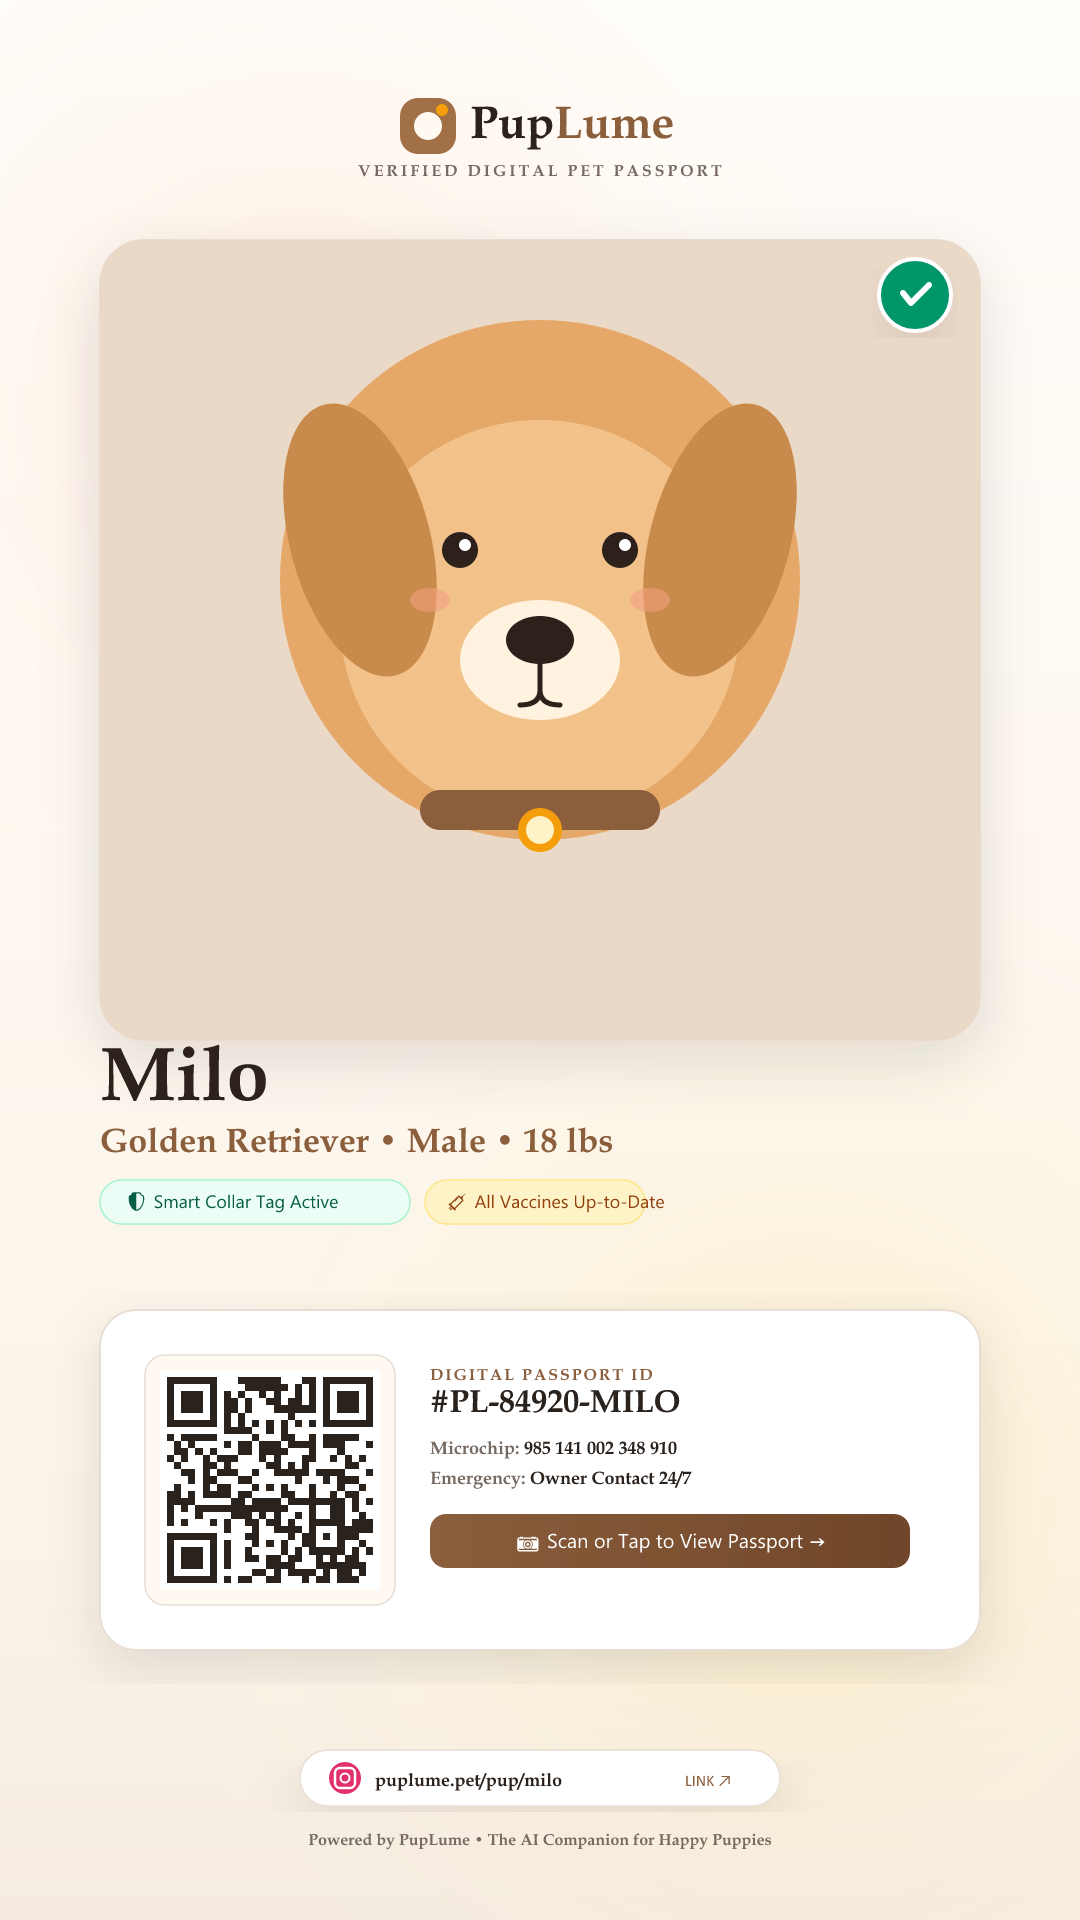
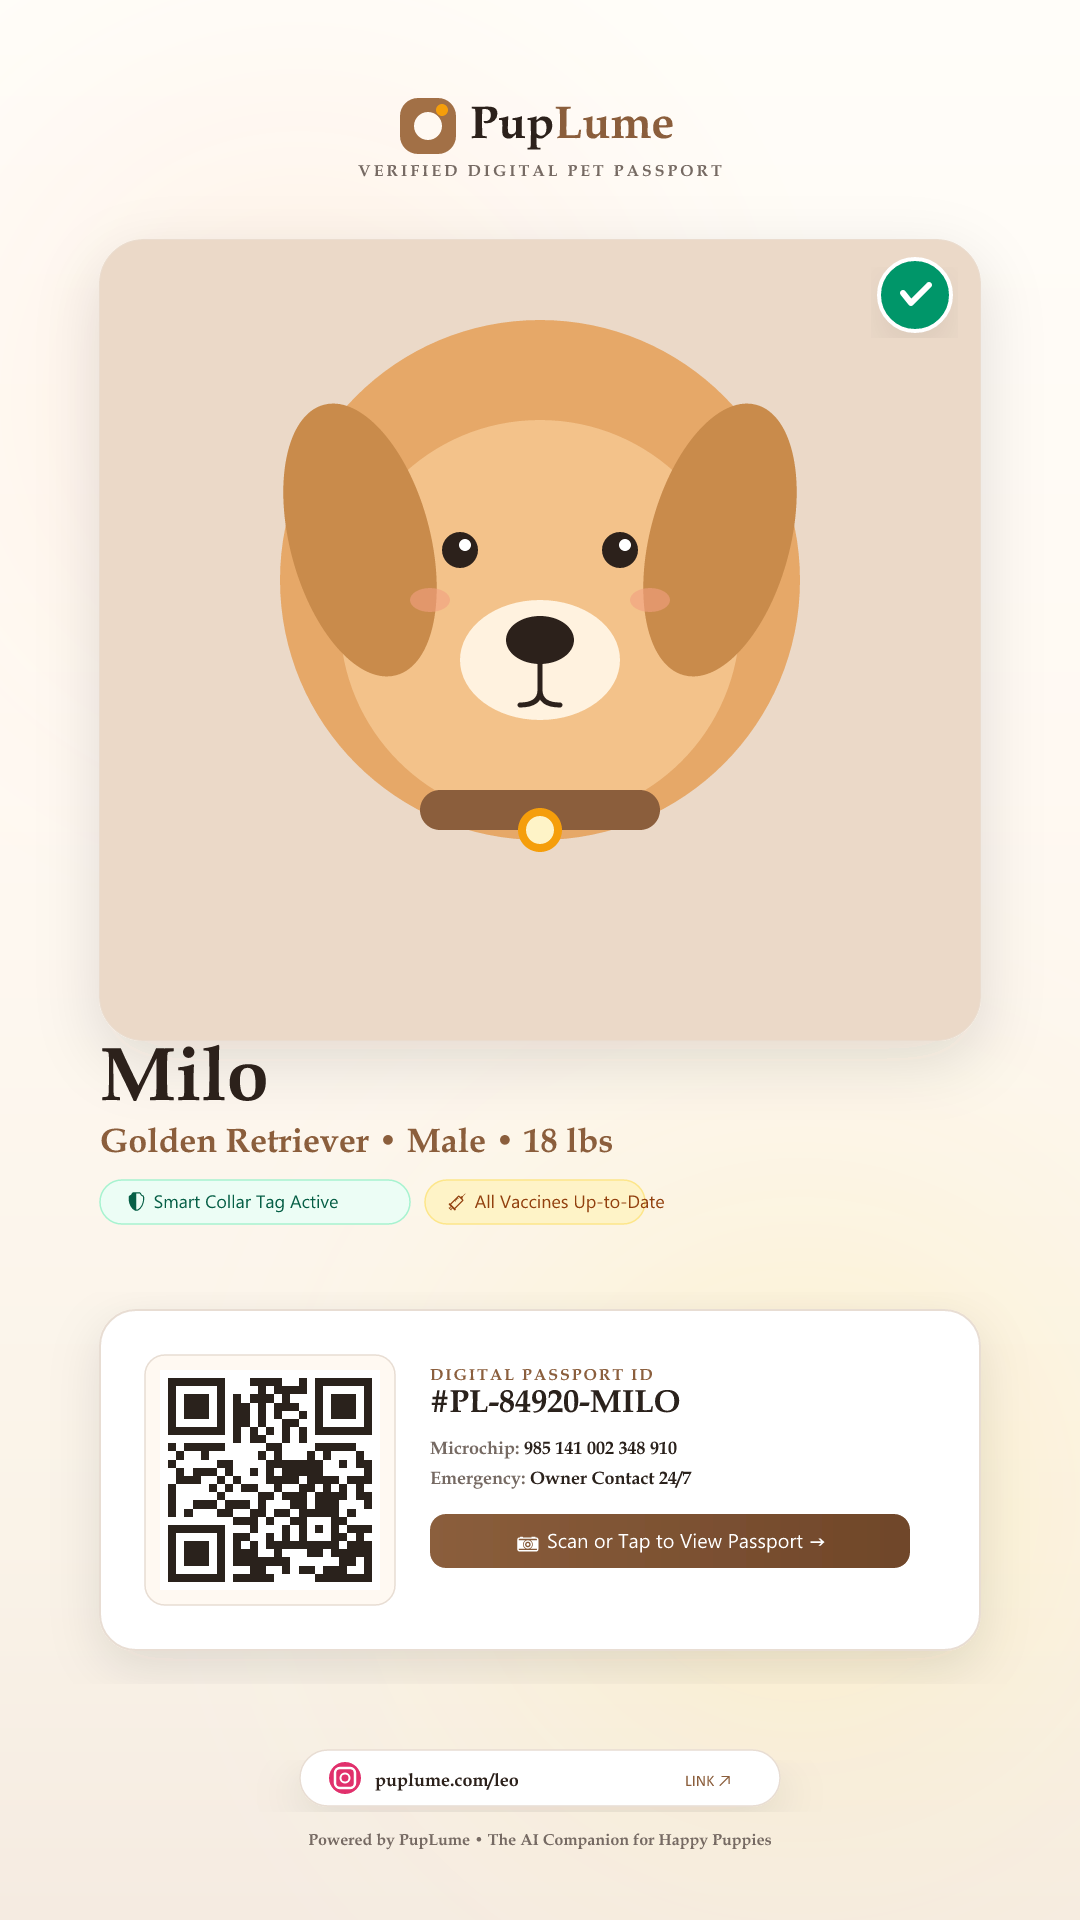
feat(puppy): custom puppy URL with 3-7 char validation, collar tag warning, QR updates, and complete profile redesign

Changed region(s): [[0.1528, 0.7188, 0.3667, 0.8438], [0.4278, 0.9062, 0.5194, 0.9375]]

diff --git a/scripts/verify-puppy-url.ts b/scripts/verify-puppy-url.ts
@@ -1,0 +1,103 @@
+import { 
+  validatePuppySlug, 
+  generateDefaultSlug, 
+  getPuppyPublicUrl, 
+  getPuppyDisplayUrl, 
+  normalizeSlug,
+  isPublicPuppyPath,
+  RESERVED_SLUGS 
+} from '../src/lib/slugHelper';
+import { generatePupLumeQRSvg } from '../src/lib/qrCodeGenerator';
+
+let failed = 0;
+let passed = 0;
+
+function assert(condition: boolean, msg: string) {
+  if (condition) {
+    passed++;
+    console.log(`  ✓ ${msg}`);
+  } else {
+    failed++;
+    console.error(`  ✗ FAIL: ${msg}`);
+  }
+}
+
+console.log('--- TEST SUITE 1: Custom Slug Validation ---');
+
+// 1. Valid slugs for puppy "Leo"
+const v1 = validatePuppySlug('leo', 'Leo');
+assert(v1.isValid === true, 'Slug "leo" is valid for puppy "Leo"');
+assert(v1.cleanedSlug === 'leo', 'Cleaned slug is "leo"');
+
+const v2 = validatePuppySlug('leox', 'Leo');
+assert(v2.isValid === true, 'Slug "leox" (4 chars, contains "leo") is valid');
+
+const v3 = validatePuppySlug('myleo', 'Leo');
+assert(v3.isValid === true, 'Slug "myleo" (5 chars, contains "leo") is valid');
+
+// 2. Length violations (must be 3 to 7 chars)
+const vShort = validatePuppySlug('le', 'Leo');
+assert(vShort.isValid === false, 'Slug "le" (< 3 chars) is rejected');
+assert(Boolean(vShort.errors.length), 'Reports length error for short slug');
+
+const vLong = validatePuppySlug('leopuppy1', 'Leo');
+assert(vLong.isValid === false, 'Slug "leopuppy1" (> 7 chars) is rejected');
+assert(Boolean(vLong.errors.length), 'Reports length error for long slug');
+
+// 3. Name inclusion rule
+const vNoName = validatePuppySlug('max', 'Leo');
+assert(vNoName.isValid === false, 'Slug "max" does not contain puppy name "Leo"');
+assert(Boolean(vNoName.errors.containsName), 'Reports containsName error');
+
+// 4. URL-safe characters rule
+const vSpecial = validatePuppySlug('leo_1', 'Leo');
+assert(vSpecial.isValid === false || vSpecial.cleanedSlug === 'leo-1', 'Slug with underscore normalized or rejected');
+
+// 5. Reserved route collision
+const vReserved = validatePuppySlug('tasks', 'Tasks');
+assert(vReserved.isValid === false, 'Reserved route "tasks" is rejected');
+assert(Boolean(vReserved.errors.reserved), 'Reports reserved route error');
+
+const vHome = validatePuppySlug('home', 'Home');
+assert(vHome.isValid === false, 'Reserved route "home" is rejected');
+
+// 6. Long puppy names (> 7 chars)
+const vLongName = validatePuppySlug('max123', 'Maximilian');
+assert(vLongName.isValid === true, 'Slug "max123" is accepted for long name "Maximilian"');
+
+console.log('\n--- TEST SUITE 2: Default Slug Generation & URL Formats ---');
+assert(generateDefaultSlug('Leo') === 'leo', 'Default slug for Leo is "leo"');
+assert(generateDefaultSlug('Bella') === 'bella', 'Default slug for Bella is "bella"');
+assert(generateDefaultSlug('Maximilian') === 'maximil', 'Default slug for Maximilian capped at 7 chars');
+assert(generateDefaultSlug('Bo') === 'bopup', 'Short name "Bo" padded to 5 chars');
+
+assert(getPuppyDisplayUrl('leo') === 'puplume.com/leo', 'Display URL is puplume.com/leo');
+assert(getPuppyPublicUrl('leo', { canonicalDomain: true }) === 'https://puplume.com/leo', 'Canonical URL is https://puplume.com/leo');
+
+console.log('\n--- TEST SUITE 3: Application Routing Architecture ---');
+assert(isPublicPuppyPath('/leo') === true, 'Route /leo is recognized as public puppy page');
+assert(isPublicPuppyPath('/pup/leo') === true, 'Route /pup/leo is recognized as public puppy page');
+assert(isPublicPuppyPath('/safety/leo') === true, 'Route /safety/leo is recognized as public puppy page');
+assert(isPublicPuppyPath('/home') === false, 'Route /home is NOT a public puppy page');
+assert(isPublicPuppyPath('/tasks') === false, 'Route /tasks is NOT a public puppy page');
+assert(isPublicPuppyPath('/puppy') === false, 'Route /puppy is NOT a public puppy page');
+assert(isPublicPuppyPath('/academy') === false, 'Route /academy is NOT a public puppy page');
+assert(isPublicPuppyPath('/auth') === false, 'Route /auth is NOT a public puppy page');
+assert(isPublicPuppyPath('/api/upload') === false, 'Route /api/upload is NOT a public puppy page');
+assert(isPublicPuppyPath('/assets/vendor.js') === false, 'Route /assets/vendor.js is NOT a public puppy page');
+assert(isPublicPuppyPath('/') === false, 'Root / is NOT a public puppy page');
+
+console.log('\n--- TEST SUITE 4: QR Code Generation for Custom URL ---');
+const qrSvg = generatePupLumeQRSvg('https://puplume.com/leo', { size: 400 });
+assert(qrSvg.includes('<svg'), 'QR code SVG is generated');
+assert(qrSvg.includes('qr-modules'), 'QR code includes module elements');
+assert(qrSvg.includes('qr-finders'), 'QR code includes custom rounded finder eyes');
+assert(qrSvg.includes('pupQrLogoGrad'), 'QR code includes center logo emblem gradient');
+
+console.log(`\n========================================`);
+console.log(`RESULTS: ${passed} passed, ${failed} failed`);
+console.log(`========================================`);
+
+if (failed > 0) {
+  process.exit(1);
+}

diff --git a/src/lib/nativeBridge.ts b/src/lib/nativeBridge.ts
@@ -156,11 +156,10 @@ class NativeBridge {
      * Share Puppy Pet Passport / Profile
      */
     puppyProfile: async (puppy: PuppyProfile, ageWeeks?: number) => {
-      const marketingOrigin = (typeof window !== 'undefined' && (window.location.hostname === 'localhost' || window.location.hostname === '127.0.0.1'))
-        ? 'http://localhost:3001'
-        : (import.meta.env.VITE_MARKETING_URL || 'https://petttttttpuplume.vercel.app');
-      const cleanSlug = encodeURIComponent(puppy.name.toLowerCase());
-      const publicUrl = `${marketingOrigin}/pup/${cleanSlug}`;
+      const slug = puppy.slug || puppy.name.toLowerCase();
+      const publicUrl = typeof window !== 'undefined'
+        ? `${window.location.origin}/${encodeURIComponent(slug)}`
+        : `https://puplume.com/${encodeURIComponent(slug)}`;
       const ageStr = ageWeeks ? `(${ageWeeks} weeks old)` : '';
 
       return this.share.custom({
@@ -174,11 +173,10 @@ class NativeBridge {
      * Share Emergency Lost Dog Alert
      */
     safetyAlert: async (puppy: PuppyProfile) => {
-      const marketingOrigin = (typeof window !== 'undefined' && (window.location.hostname === 'localhost' || window.location.hostname === '127.0.0.1'))
-        ? 'http://localhost:3001'
-        : (import.meta.env.VITE_MARKETING_URL || 'https://petttttttpuplume.vercel.app');
-      const cleanSlug = encodeURIComponent(puppy.name.toLowerCase());
-      const publicUrl = `${marketingOrigin}/pup/${cleanSlug}`;
+      const slug = puppy.slug || puppy.name.toLowerCase();
+      const publicUrl = typeof window !== 'undefined'
+        ? `${window.location.origin}/${encodeURIComponent(slug)}`
+        : `https://puplume.com/${encodeURIComponent(slug)}`;
       const rewardStr = puppy.rewardAmount ? ` Reward: $${puppy.rewardAmount}!` : '';
 
       return this.share.custom({

diff --git a/src/App.tsx b/src/App.tsx
@@ -102,41 +102,14 @@ const MarketingCarousel = () => {
   );
 };
 
+import { isPublicPuppyPath } from './lib/slugHelper';
+
 const VALID_VIEWS = new Set([
   'home', 'tasks', 'ai', 'academy', 'more', 'potty', 'health', 
   'expenses', 'vault', 'socialization', 'journal', 'recap', 
   'puppy', 'sharing', 'settings', 'onboarding', 'privacy', 'terms',
   'auth', 'signin'
 ]);
-
-export function isPublicPuppyPath(pathname: string): boolean {
-  if (!pathname) return false;
-  const clean = pathname.split('#')[0].split('?')[0].replace(/^\/+|\/+$/g, '').toLowerCase();
-  if (!clean) return false;
-  if (clean.startsWith('pup/') || clean === 'pup' || clean.startsWith('safety/') || clean === 'safety') {
-    return true;
-  }
-  if (
-    clean.startsWith('assets/') || 
-    clean.startsWith('api/') || 
-    clean.startsWith('@') ||
-    clean.includes('.')
-  ) {
-    return false;
-  }
-  if (
-    VALID_VIEWS.has(clean) || 
-    clean === 'sign-in' || 
-    clean === 'sign-up' || 
-    clean === 'signup' || 
-    clean === 'login' || 
-    clean === 'paddlelog' ||
-    clean === 'share-target'
-  ) {
-    return false;
-  }
-  return true;
-}
 
 function sanitizeView(view: string | null | undefined): string {
   if (!view) return 'home';

diff --git a/scripts/generate-story-designs.ts b/scripts/generate-story-designs.ts
@@ -9,7 +9,7 @@ const PUBLIC_DIR = path.resolve('public');
 async function main() {
   console.log('Generating PupLume Instagram Story & Preview Designs...');
 
-  const qrSvgRaw = await QRCode.toString('https://puplume.pet/pup/milo', {
+  const qrSvgRaw = await QRCode.toString('https://puplume.com/leo', {
     type: 'svg',
     margin: 1,
     color: {
@@ -172,7 +172,7 @@ async function main() {
       <circle cx="-195" cy="28" r="16" fill="#E1306C" />
       <rect x="-205" y="18" width="20" height="20" rx="5" fill="none" stroke="#FFFFFF" stroke-width="2.5" />
       <circle cx="-195" cy="28" r="4.5" fill="none" stroke="#FFFFFF" stroke-width="2" />
-      <text x="-165" y="36" font-family="'Plus Jakarta Sans', system-ui, sans-serif" font-weight="800" font-size="18" fill="#2C211B">puplume.pet/pup/milo</text>
+      <text x="-165" y="36" font-family="'Plus Jakarta Sans', system-ui, sans-serif" font-weight="800" font-size="18" fill="#2C211B">puplume.com/leo</text>
       <text x="145" y="36" font-family="'Plus Jakarta Sans', system-ui, sans-serif" font-weight="800" font-size="16" fill="#8B5E3C">LINK ↗</text>
     </g>
 

diff --git a/src/lib/slugHelper.ts b/src/lib/slugHelper.ts
@@ -39,6 +39,39 @@ export const RESERVED_SLUGS = new Set([
   'share-target',
 ]);
 
+/**
+ * Checks whether a given path is a public puppy route (e.g. /leo, /pup/leo, /safety/leo)
+ * as opposed to an internal application view or asset.
+ */
+export function isPublicPuppyPath(pathname: string): boolean {
+  if (!pathname || pathname === '/') return false;
+  const clean = pathname.split('#')[0].split('?')[0].replace(/^\/+|\/+$/g, '').toLowerCase();
+  if (!clean) return false;
+  if (clean.startsWith('pup/') || clean === 'pup' || clean.startsWith('safety/') || clean === 'safety') {
+    return true;
+  }
+  if (
+    clean.startsWith('assets/') || 
+    clean.startsWith('api/') || 
+    clean.startsWith('@') ||
+    clean.includes('.')
+  ) {
+    return false;
+  }
+  if (
+    RESERVED_SLUGS.has(clean) || 
+    clean === 'sign-in' || 
+    clean === 'sign-up' || 
+    clean === 'signup' || 
+    clean === 'login' || 
+    clean === 'paddlelog' ||
+    clean === 'share-target'
+  ) {
+    return false;
+  }
+  return true;
+}
+
 export interface SlugValidationResult {
   isValid: boolean;
   cleanedSlug: string;
